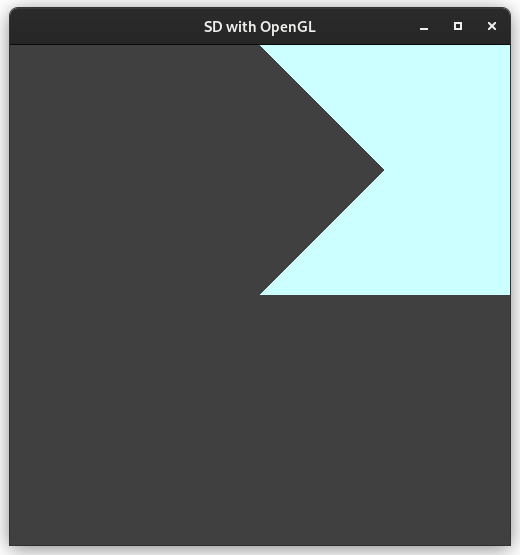
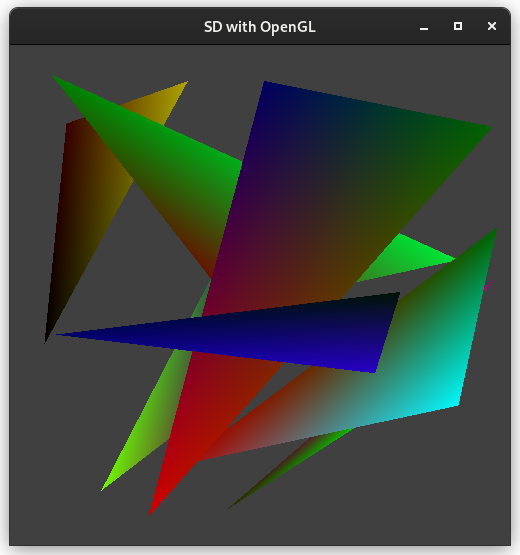
keyboard click will generate randowm triangle

diff --git a/triangle.cpp b/triangle.cpp
@@ -1,14 +1,33 @@
 #include <GL/freeglut.h>
 #include <GL/gl.h>
+#include <random>
 /*
 to run: g++ main.c -lglut -lGL -lGLEW -lGLU -o OpenGLExample
 */
+//return a randow number between -1 and 1
+float rf() {
+    std::random_device rd;
+    std::mt19937 gen(rd());
+    std::uniform_real_distribution<> dis(-1, 1);
+    return dis(gen);
+}
 void keyboard(unsigned char key, int x, int y) {
-    switch (key) {
-    case 27:
-        exit(0);
-        break;
-    }
+  switch (key) {
+  case 27:
+      exit(0);
+      break;
+  }
+  glBegin(GL_POLYGON);
+  glColor3f(rf(), rf(), rf());
+  glVertex2f(rf(), rf());
+  glColor3f(rf(), rf(), rf());
+  glVertex2f(rf(), rf());
+  glColor3f(rf(), rf(), rf());
+  glVertex2f(rf(), rf());
+  glEnd();
+
+  //glFlush causes the output to be displayed.
+  glFlush();
 }
 void renderFunction() {
   //glClearColor specifies the rgb alpha values used by glClear to clear the color buffer.
@@ -36,11 +55,12 @@ void renderFunction() {
   //GL_POINTS specifies that the primitives are points.
   //GL_POLYGON specifies that the primitives are polygons.
   glBegin(GL_POLYGON);
-  glVertex2f(0.5,0.5);
-  glVertex2f(0,0);
-  glVertex2f(1,0);
-  glVertex2f(1,1);
-  glVertex2f(0,1);
+  glColor3f(rf(), rf(), rf());
+  glVertex2f(rf(), rf());
+  glColor3f(rf(), rf(), rf());
+  glVertex2f(rf(), rf());
+  glColor3f(rf(), rf(), rf());
+  glVertex2f(rf(), rf());
   glEnd();
 
   //glFlush causes the output to be displayed.
